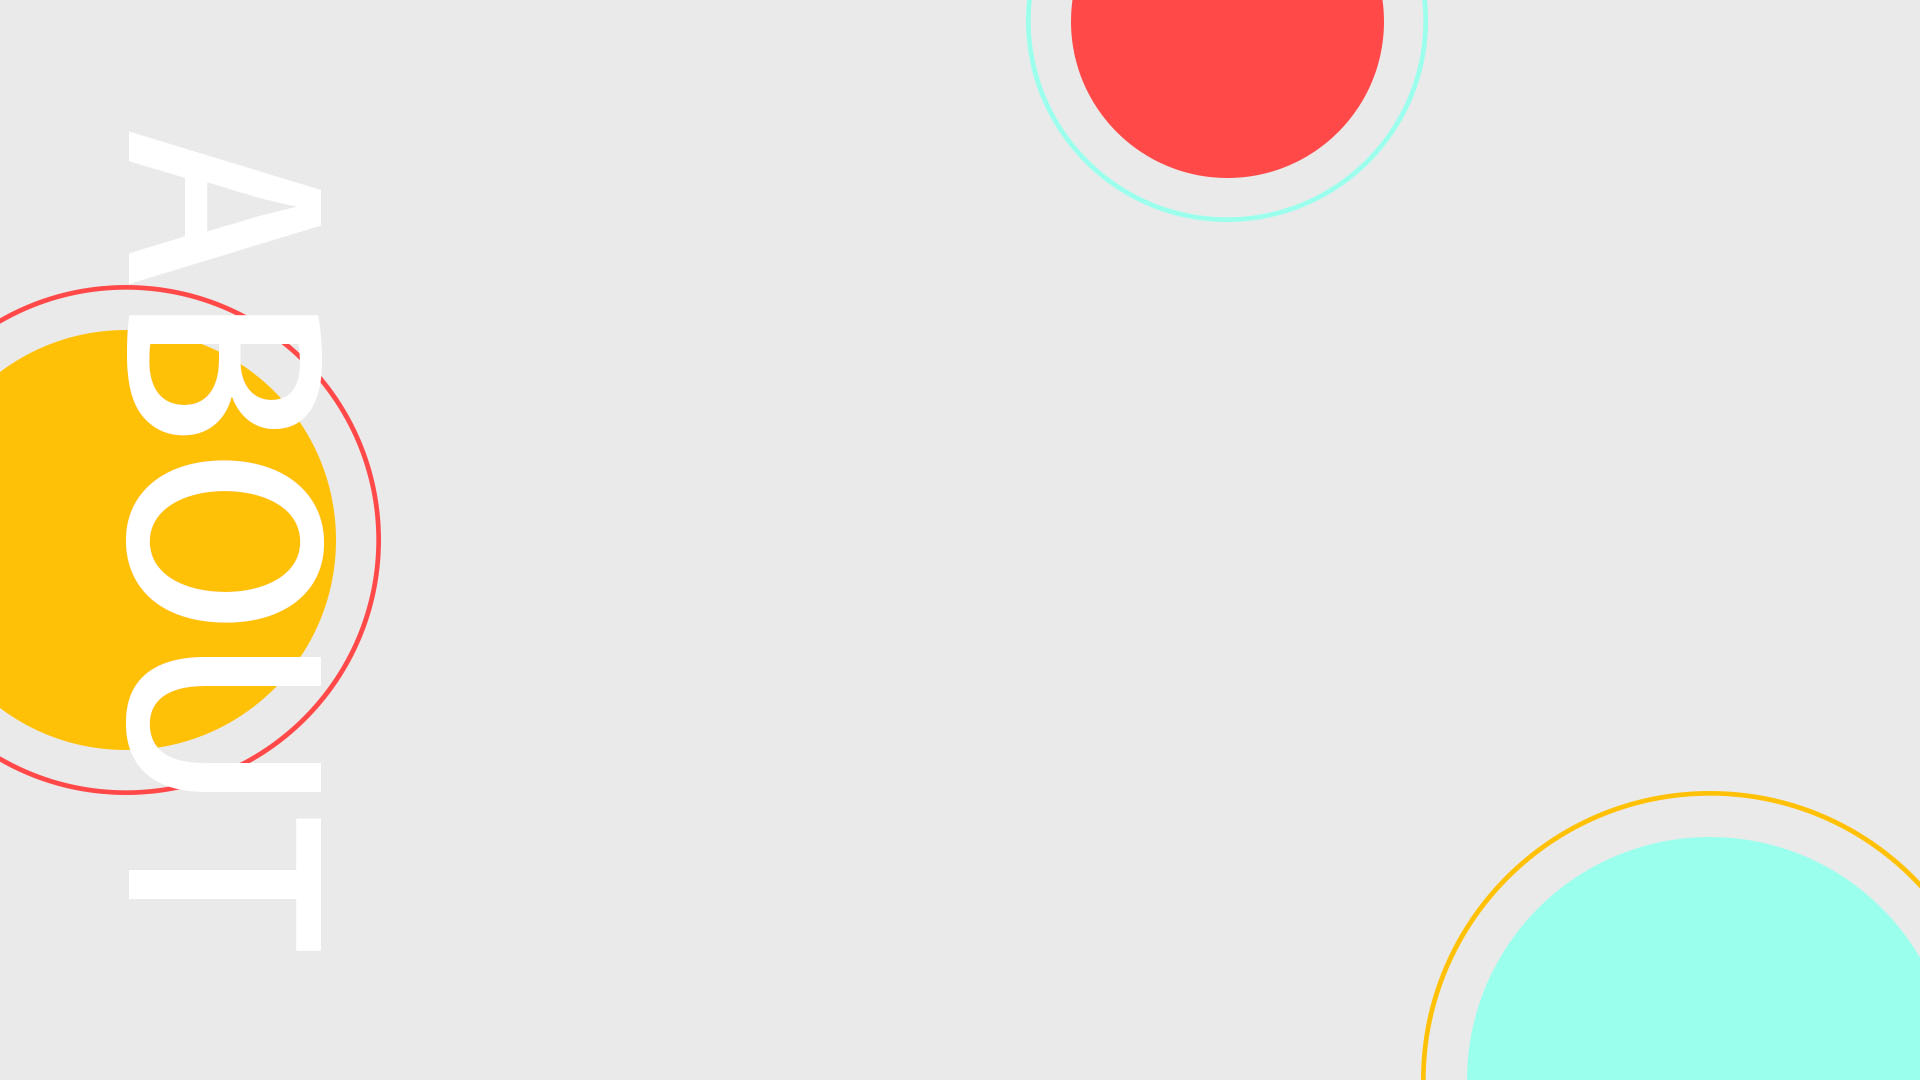
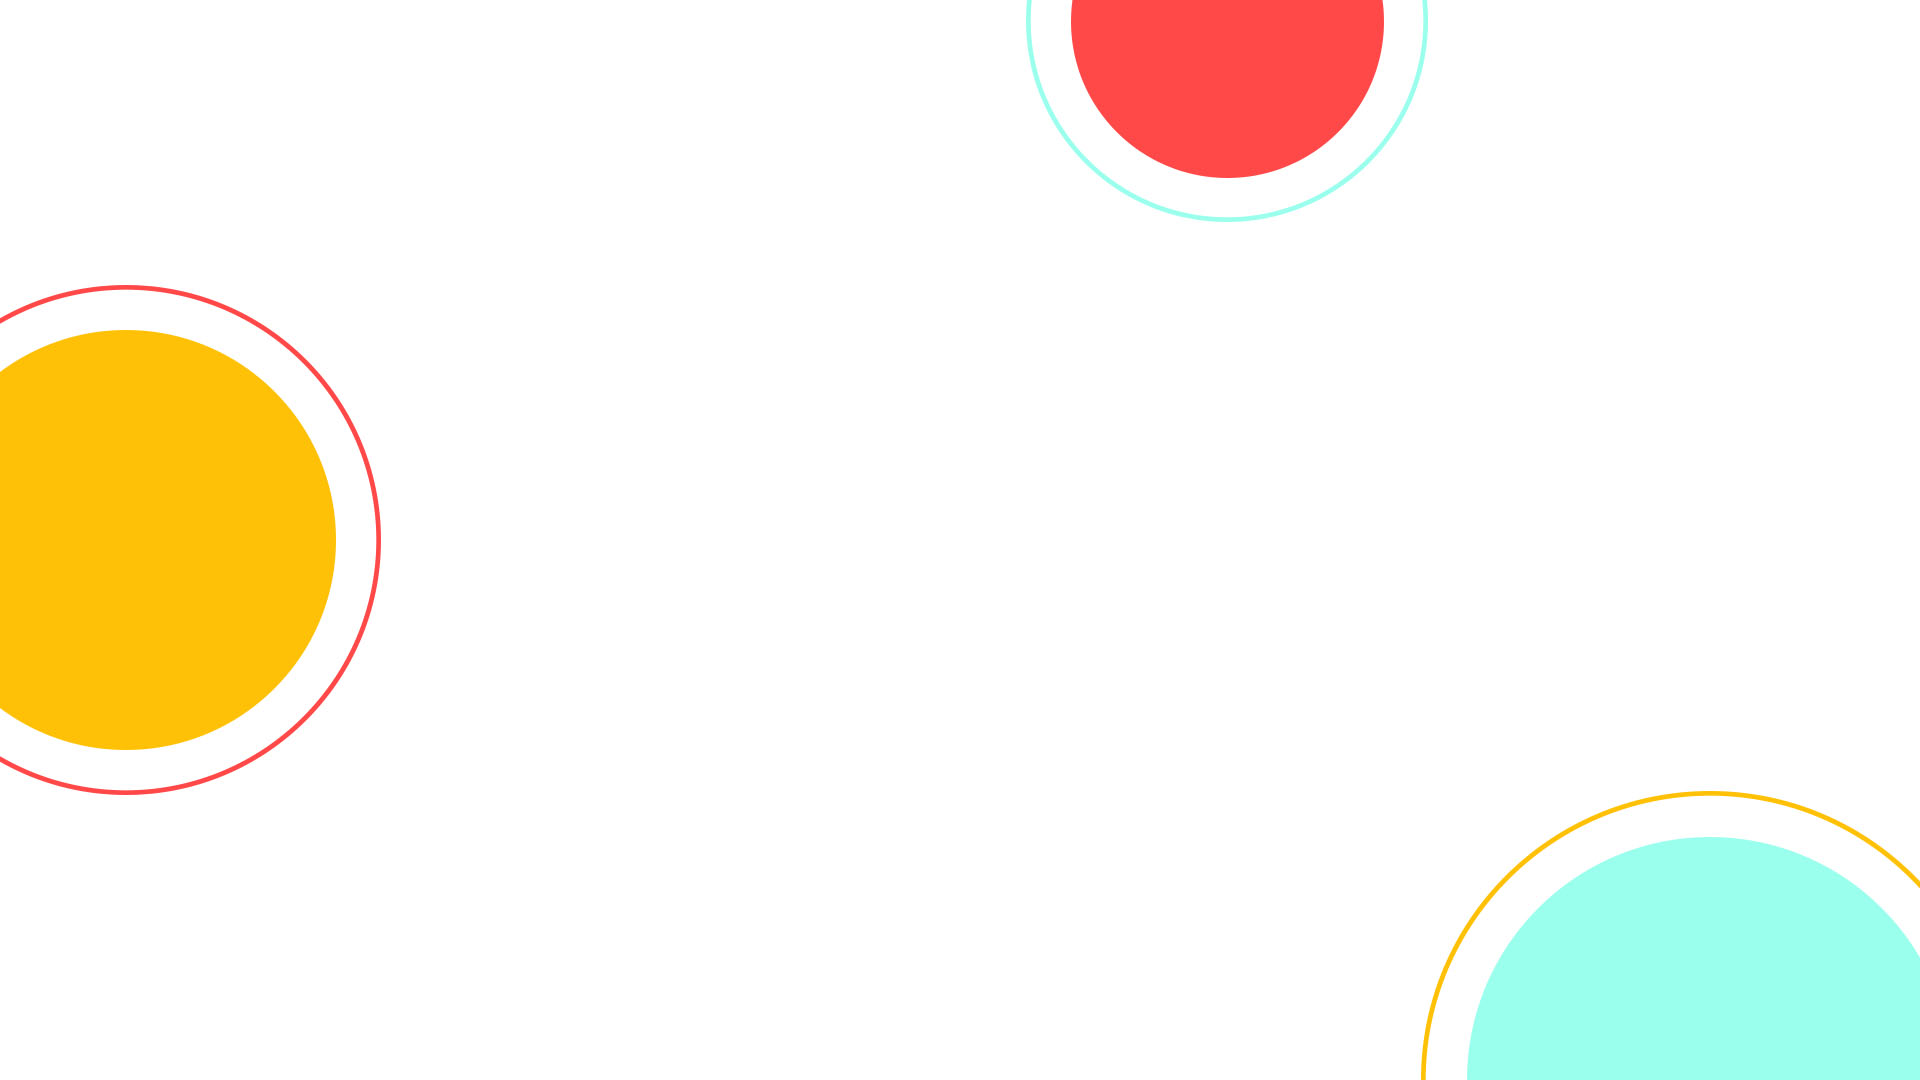
20220803

Changed region(s): [[0.0625, 0.3056, 0.1875, 0.5806], [0.0625, 0.6111, 0.1562, 0.7028], [0.0938, 0.7028, 0.125, 0.7333]]

diff --git a/index.html b/index.html
@@ -36,7 +36,7 @@
                         <a class="nav-link" href="#about">關於波波</a>
                     </li>
                     <li class="nav-item">
-                        <a class="nav-link" href="#history">歷史沿革</a>
+                        <a class="nav-link" href="#del">本店特色</a>
                     </li>
                     <li class="nav-item">
                         <a class="nav-link" href="#news">最新消息</a>
@@ -239,10 +239,76 @@
             </div>
         </section> -->
         <!-- about-2 -->
-
-        <!-- about-3 -->
-        
-        <!-- about-3 -->
+        <section class="hero" id="about">
+            <div class="container">
+                <div class="row">
+                    <h2 class="fz-48 text-theme">關於波波</h2>
+                </div>
+                <div class="row pt-4 mt-2">
+                    <div class="col-lg-5">
+                        <div id="carouselExampleFade" class="carousel slide carousel-fade" data-bs-ride="carousel">
+                            <div class="carousel-inner">
+                                <div class="carousel-item active">
+                                    <img src="./img/h1.jpg" class="d-block w-100" alt="...">
+                                </div>
+                                <div class="carousel-item">
+                                    <img src="./img/h2.jpg" class="d-block w-100" alt="...">
+                                </div>
+                                <div class="carousel-item">
+                                    <img src="./img/h3.jpg" class="d-block w-100" alt="...">
+                                </div>
+                                <div class="carousel-item">
+                                    <img src="./img/h4.jpg" class="d-block w-100" alt="...">
+                                </div>
+                                <div class="carousel-item">
+                                    <img src="./img/h5.jpg" class="d-block w-100" alt="...">
+                                </div>
+                            </div>
+                            <button class="carousel-control-prev" type="button" data-bs-target="#carouselExampleFade"
+                                data-bs-slide="prev">
+                                <span class="carousel-control-prev-icon" aria-hidden="true"></span>
+                                <span class="visually-hidden">Previous</span>
+                            </button>
+                            <button class="carousel-control-next" type="button" data-bs-target="#carouselExampleFade"
+                                data-bs-slide="next">
+                                <span class="carousel-control-next-icon" aria-hidden="true"></span>
+                                <span class="visually-hidden">Next</span>
+                            </button>
+                        </div>
+                    </div>
+                </div>
+                <div class="row mt-4">
+                    <!-- <div class="col-lg-6"></div> -->
+                    <div class="col-lg-12 p-2">
+                        <p class="text-warning">黑糖波波爆米花老店的爆米花，一直由創辦人米香茂先生，自原
+                            料的挑選到產品嚴格管制，絕不經手他人，講究純手工製造，蓬
+                            鬆、酥脆、香濃，不卡牙。品嚐時口口酥脆、口感奇佳，味道香
+                            濃不黏牙，食材當地直取這才稱得上是道道地地的『爆米花』。
+                        </p>
+                    </div>
+                </div>
+            </div>
+        </section>
+        <section class="hero" id="del">
+            <div class="container">
+                <div class="row">
+                    <h2 class="text-theme fz-48 text-center">本店特色</h2>
+                </div>
+                <div class="row m-3 p-3 align-items-center">
+                    <div class="col-lg-6 col-md-12">
+                        <img src="./img/4.png" alt="">
+                    </div>
+                    <div class="col-lg-6 col-md-12">
+                        <ul class="fz-24">
+                            <li class="py-2">1.嚴選 MIT 花型玉米粒優質品種</li>
+                            <li class="py-2">2.堅持使用屏東花田農場的天然奶油</li>
+                            <li class="py-2">3.堅持手工製作 5 步驟：拌>悶>搖>炒>爆</li>
+                            <li class="py-2">4.黑貓即送，今日下訂明日到達</li>
+                        </ul>
+                    </div>
+                </div>
+            </div>
+        </section>
 
 
         <!-- news -->

diff --git a/style/style.scss b/style/style.scss
@@ -31,7 +31,7 @@ p {
     font-size: 18px;
     letter-spacing: 6px;
     line-height: 1.6em;
-    text-shadow: -2px 3px 8px #333;
+    // text-shadow: -2px 3px 8px #333;
 }
 
 #carouselExampleIndicators {
@@ -119,14 +119,14 @@ p {
 }
 
 #about {
-    background-image: url("../img/Abouts.jpg");
+    background-image: url("../img/testbg.png");
     background-repeat: no-repeat;
     background-position: center;
-    background-size: cover;
+    background-size: 100%;
     // height: 100vh;
     &.hero{
         padding-top: 140px;
-        padding-bottom: 140px;
+        padding-bottom: 100px;
     }
 
     // .bg-about {
@@ -176,6 +176,8 @@ p {
     //     }
     // }
 
+
+
     .round50{
         height: 500px;
         width: 500px;
@@ -191,7 +193,7 @@ p {
 }
 
 #news {
-    background-image: url("../img/newsbannersss.jpg");
+    // background-image: url("../img/newsbannersss.jpg");
     // background-color: #;
     background-repeat: no-repeat;
     background-position: center;
@@ -210,13 +212,22 @@ p {
         color: #fa0;
     }
 }
+#del{
+    // background-image: url(../img/del.png);
+    background-size: cover;
+    background-repeat: no-repeat;
+    i{
+        font-size: 98px;
+        color: #4d4b4b;
+    }
+
+}
 
 #history {
     // background-image: url("../img/History.jpg");
     background-attachment: fixed;
     background-size: cover;
     background-repeat: no-repeat;
-
     .history_title {
         color: #333;
         text-shadow: 5px 5px 10px #d8d8d8;
@@ -227,6 +238,9 @@ p {
 }
 
 #news {
+    background-image: url("../img/about.jpg");
+    background-size: cover;
+    background-repeat: no-repeat;
     &.hero {
         padding-top: 60px;
         padding-bottom: 60px;

diff --git a/css/style.css b/css/style.css
@@ -208,7 +208,6 @@ p {
   font-size: 18px;
   letter-spacing: 6px;
   line-height: 1.6em;
-  text-shadow: -2px 3px 8px #333;
 }
 
 @media (max-width: 1300px) {
@@ -295,15 +294,15 @@ p {
 }
 
 #about {
-  background-image: url("../img/Abouts.jpg");
+  background-image: url("../img/testbg.png");
   background-repeat: no-repeat;
   background-position: center;
-  background-size: cover;
+  background-size: 100%;
 }
 
 #about.hero {
   padding-top: 140px;
-  padding-bottom: 140px;
+  padding-bottom: 100px;
 }
 
 #about .round50 {
@@ -319,7 +318,6 @@ p {
 }
 
 #news {
-  background-image: url("../img/newsbannersss.jpg");
   background-repeat: no-repeat;
   background-position: center;
   background-size: cover;
@@ -337,6 +335,16 @@ p {
   color: #fa0;
 }
 
+#del {
+  background-size: cover;
+  background-repeat: no-repeat;
+}
+
+#del i {
+  font-size: 98px;
+  color: #4d4b4b;
+}
+
 #history {
   background-attachment: fixed;
   background-size: cover;
@@ -350,6 +358,12 @@ p {
 
 #history p {
   font-size: 22px;
+}
+
+#news {
+  background-image: url("../img/about.jpg");
+  background-size: cover;
+  background-repeat: no-repeat;
 }
 
 #news.hero {
